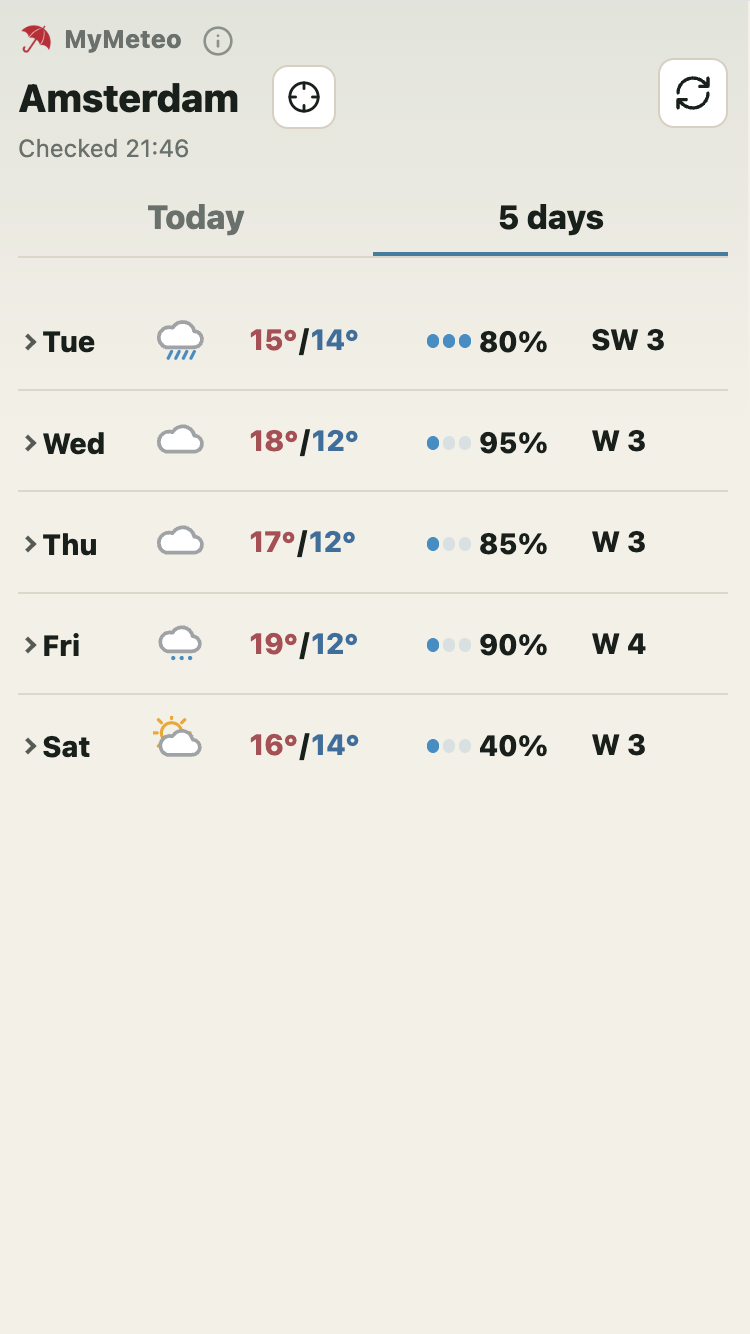
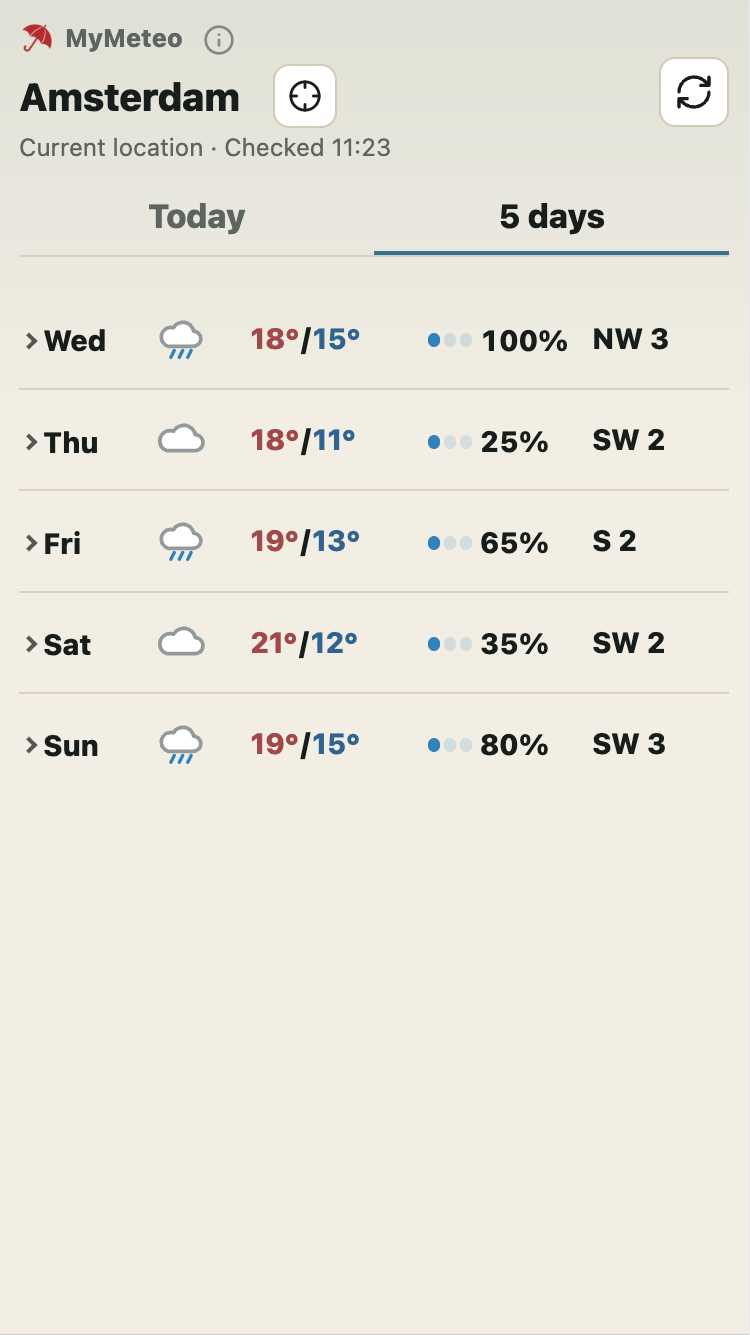
Refresh README and redirect legacy Pages visitors

diff --git a/index.html b/index.html
@@ -4,6 +4,16 @@
     <meta charset="utf-8" />
     <meta name="viewport" content="width=device-width, initial-scale=1" />
     <title>MyMeteo</title>
+    <link rel="canonical" href="https://mymeteo.nl/" />
+    <script>
+      // Keep existing GitHub Pages bookmarks on the fully configured live app.
+      if (
+        window.location.hostname === "msmeehui.github.io" &&
+        /^\/mymeteo(?:\/|$)/.test(window.location.pathname)
+      ) {
+        window.location.replace(`https://mymeteo.nl/${window.location.search}${window.location.hash}`);
+      }
+    </script>
     <meta name="theme-color" content="#4aa6c9" />
     <meta name="description" content="A simple weather forecast with rain radar, outfit suggestions, and a 5-day outlook." />
     <meta property="og:title" content="MyMeteo" />

diff --git a/README.md b/README.md
@@ -1,27 +1,35 @@
 # MyMeteo
 
-MyMeteo is a small personal weather dashboard with location search, current-location support, live weather, outfit suggestions, a 5-day outlook, and moving rain radar.
+MyMeteo is a compact, mobile-first weather app for checking the weather, seeing when rain is coming, choosing what to wear, and planning the next five days. Search for a place or use your current location.
 
-[Open MyMeteo](https://msmeehui.github.io/mymeteo/)
+[Open MyMeteo](https://mymeteo.nl/)
 
 <p>
-  <img src="assets/mymeteo-raintab.png" alt="MyMeteo Today rain radar view" width="260">
-  <img src="assets/mymeteo-outfit.png" alt="MyMeteo Today outfit suggestion view" width="260">
-  <img src="assets/mymeteo-5daystab.png" alt="MyMeteo 5-day forecast tab" width="260">
+  <img src="assets/mymeteo-raintab.png" alt="MyMeteo Today view with KNMI rain radar, selected-time weather, and precipitation graph" width="260">
+  <img src="assets/mymeteo-outfit.png" alt="MyMeteo Today view with a clothing suggestion for heavy rain and the precipitation graph" width="260">
+  <img src="assets/mymeteo-5daystab.png" alt="MyMeteo five-day forecast with weather icons, high and low temperatures, rain chance, and wind" width="260">
 </p>
 
 ## Features
 
-- Search for a city or place and load the local forecast
-- Use the browser's current-location permission to check the weather nearby
-- View current temperature, conditions, rain, wind, and daily highs/lows
-- Switch between rain radar, outfit suggestions, and a 5-day forecast table
-- Animate rain radar frames with a time slider
-- Install-friendly icons and web app manifest
+- Search for a city or place, or use your current location; your chosen location is remembered for next time
+- Check temperature, weather conditions, daily highs/lows, wind, and rain chance in a compact Today view
+- Scrub the radar timeline to explore upcoming rain, with the map, weather card, and clothing suggestion following the selected time
+- See the timing and intensity of local rain in a precipitation graph coordinated with the radar
+- Switch between the radar map and illustrated clothing suggestions, including scenes for after dark
+- Scan a five-day forecast starting with today, then expand a day for hourly detail
+- Use KNMI radar for the first two hours in the Netherlands, with Buienradar for longer range and fallback, and LibreWXR outside the Netherlands or when Dutch radar is unavailable
+- Add MyMeteo to your phone's home screen for quick access
+
+## Live Site And Hosting
+
+The main app is [mymeteo.nl](https://mymeteo.nl/), hosted on Cloud86. The older [GitHub Pages address](https://msmeehui.github.io/mymeteo/) redirects there, preserving URL parameters and fragments from existing links.
+
+The interface is HTML, CSS, and JavaScript, but KNMI radar also requires the PHP proxy at `api/knmi-wms.php` and its private server configuration. GitHub Pages cannot run PHP, so a standalone static copy cannot provide the full Netherlands radar experience. It can use Buienradar or LibreWXR when those services are available.
 
 ## Open Locally
 
-You can open `index.html` directly in a browser, but serving the folder locally is usually more reliable for browser features and external data requests:
+Serve the project folder with a local web server:
 
 ```sh
 python3 -m http.server 4173 --bind 127.0.0.1
@@ -32,6 +40,8 @@ Then visit:
 ```text
 http://127.0.0.1:4173/
 ```
+
+This is enough to preview the interface and use public forecast and fallback radar services. Python's static server does not execute PHP, so KNMI radar and point rain are unavailable in this setup. To develop with KNMI locally, use a PHP server with cURL and configure the proxy with a KNMI WMS key stored outside the public web root. Use the live site for the fully configured app.
 
 ## Add MyMeteo To Your Phone
 
@@ -61,7 +71,7 @@ No browser API key is required. Netherlands KNMI WMS requests are routed through
 - Location autocomplete: [Open-Meteo Geocoding API](https://open-meteo.com/en/docs/geocoding-api)
 - Current-location names: [OpenStreetMap Nominatim](https://nominatim.openstreetmap.org/)
 - Rain radar animation in the Netherlands: [KNMI](https://www.knmi.nl/) for the first 2 hours, then [Buienradar](https://www.buienradar.nl/) for longer range and fallback
-- Near-term rain in the Netherlands: the Today card follows the displayed KNMI/Buienradar radar image when it can be read at the selected location; KNMI point rain and then Buienradar/Open-Meteo provide fallback and longer-range guidance
+- Near-term rain in the Netherlands: the Today card, precipitation graph, and clothing suggestion follow the displayed KNMI/Buienradar radar image when it can be read at the selected location and time; KNMI point rain and then Buienradar/Open-Meteo provide fallback and longer-range guidance
 - Thunderstorm icon support: Open-Meteo weather codes plus CAPE/lightning-potential signals for cautious heavy-rain storm upgrades
 - Radar frame decoding: [gifuct-js](https://github.com/matt-way/gifuct-js) through [esm.sh](https://esm.sh/)
 - Fallback/outside-Netherlands radar: [LibreWXR](https://librewxr.net/); the Today graph and rain condition use the exact location in the same displayed frames. Unknown local readings withhold the detailed graph instead of drawing hourly model rain as continuous minute-level rainfall.
@@ -89,7 +99,6 @@ For a proxy-only update, upload `api/knmi-wms.php` to the same server path. Keep
 
 - Current-location mode auto-refreshes on open when browser geolocation permission is already granted.
 - The app needs an internet connection because weather, radar, map tiles, and external libraries are loaded from public services.
-- This is a static HTML, CSS, and JavaScript project, so it can be hosted with GitHub Pages.
 
 ## License
 

diff --git a/MYMETEO_PROJECT_CONTEXT.md b/MYMETEO_PROJECT_CONTEXT.md
@@ -1,6 +1,6 @@
 # MyMeteo Project Context
 
-Last updated: 2026-09-05
+Last updated: 2026-09-09
 
 This file is the shared product memory for MyMeteo. Read it before discussing or changing the app in a new Codex chat. It summarizes the decisions, trade-offs, and design philosophy that emerged from the MyMeteo development chats, the app changelog, the README, git history, and the current implementation.
 
@@ -33,6 +33,8 @@ When implementing, keep changes scoped and verify them. For MyMeteo this usually
 ## Current App Shape
 
 MyMeteo is mostly a static HTML/CSS/JavaScript app. It can run locally from the folder or be served by a simple static server, with the production KNMI WMS route handled by a small PHP proxy on Cloud86. It is hosted publicly at mymeteo.nl.
+
+Use `https://mymeteo.nl/` as the main app link in documentation and shared links. The legacy `msmeehui.github.io/mymeteo/` address redirects to the live app, preserving query parameters and fragments. Keep this redirect limited to that GitHub Pages host and app path, so production and local previews continue to open normally. GitHub Pages and local static servers cannot execute the KNMI PHP proxy; fallback radar availability does not make them equivalent to the fully configured live site.
 
 Keeping the site static, no-key-in-browser, and operationally simple has been an important design constraint. API-key providers are possible, but they either expose secrets in the browser or require a backend/proxy. Prefer no-key public data sources unless there is a strong reason to change the architecture.
 
